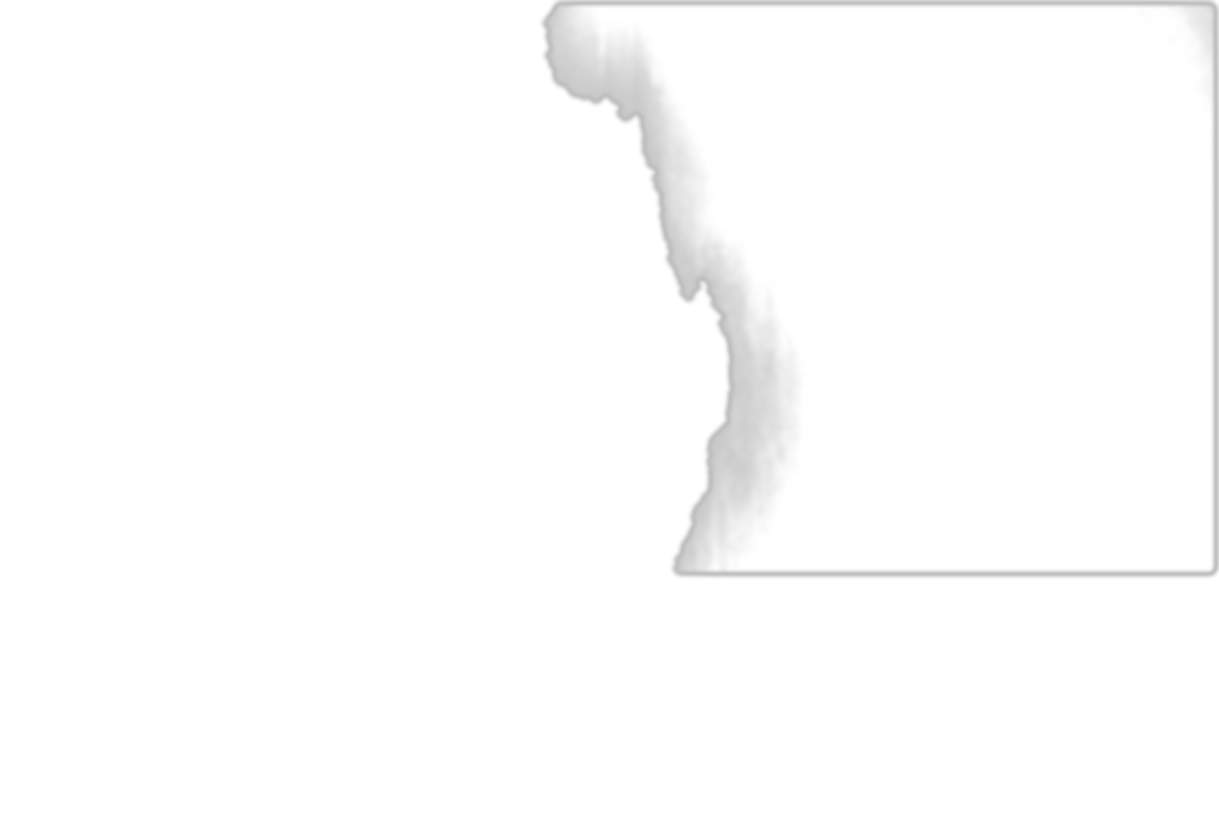
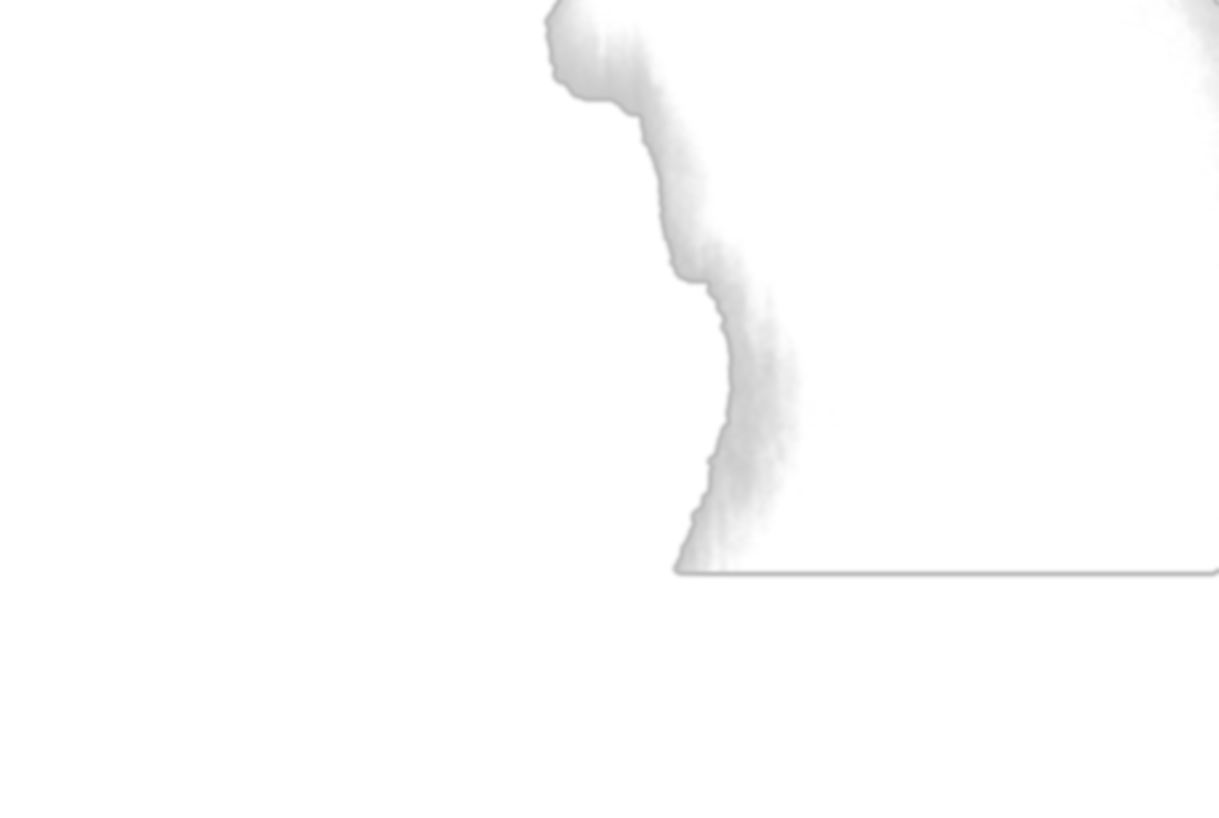
Visualiser masks: total fill on walls (horizontal sweep + colour check)
Goal of this pass: eliminate gaps inside the wall while keeping
furniture, windows and pendant lights untouched.

Pipeline additions:
- Hole-fill is now colour-aware. For each interior hole < 3% of the
  image, we average the hole's RGB and only plug it if that mean is
  within 1.7× dist of the seed. Picture frames and lamp halos (mean
  close to wall cream) get filled; brass pendant lights and dark
  fittings stay as holes.
- Horizontal sweep above the floor line: in each row, plug any gap
  bracketed by wall pixels left-and-right — but only for pixels
  within 1.8× dist of the seed (loose wall-colour test). Catches
  sunlit/shadowed mid-wall patches without bleeding onto sofas,
  tables or lamps. Sanity check: only sweep rows where wall already
  covers > 25% of the span.
- Closing iterations dropped from 5 → 2 so small in-wall fixtures
  (pendants, fittings) aren't swallowed into the wall blob during
  morphology — the new sweep takes over that job and does it with
  a colour check instead of a structural element.

Per-room tuning settled to a balance: kitchen-island dist=60 lets
sunlit ceiling fill via sweep without sweeping in the brass
pendants; bedroom-soft dist=95 absorbs the strong lamp halo.

Result after this pass: living-modern, living-warm, bedroom-soft,
bathroom, dining, hallway, office, exterior all paint cleanly with
full wall coverage. Bedroom-suite, kitchen-warm and kitchen-island
have minor residual gaps in their most extreme highlight zones —
[…]

diff --git a/images/rooms/_make_wall_masks.py b/images/rooms/_make_wall_masks.py
@@ -21,7 +21,7 @@ ROOMS = {
     'room-living-warm':    dict(seed=(0.55, 0.15), dist=58, floor=0.55, top=0.00),
     'room-bedroom-soft':   dict(seed=(0.30, 0.18), dist=95, floor=0.55, top=0.00),
     'room-bedroom-suite':  dict(seed=(0.70, 0.18), dist=70, floor=0.62, top=0.00),
-    'room-kitchen-island': dict(seed=(0.30, 0.20), dist=95, floor=0.50, top=0.00),
+    'room-kitchen-island': dict(seed=(0.30, 0.20), dist=60, floor=0.50, top=0.00),
     'room-kitchen-warm':   dict(seed=(0.55, 0.08), dist=82, floor=0.55, top=0.00),
     'room-dining':         dict(seed=(0.50, 0.30), dist=64, floor=0.72, top=0.00),
     'room-bathroom':       dict(seed=(0.55, 0.15), dist=72, floor=0.62, top=0.00),
@@ -55,10 +55,11 @@ def make_mask(im, p, slug):
     band[top_y:floor_y, :] = True
     candidate &= band
 
-    # Morphological close + open to clean up. Heavier closing than v2
-    # so that thin gaps (mouldings, picture-frame edges) get bridged
-    # and don't fragment the wall blob.
-    candidate = ndi.binary_closing(candidate, iterations=5)
+    # Morphological close + open to clean up. Keep closing modest so
+    # small in-wall fixtures (pendant lights, hanging fittings) don't
+    # get swallowed into the wall blob. Hole-fill + horizontal sweep
+    # downstream handle the larger interior gaps.
+    candidate = ndi.binary_closing(candidate, iterations=2)
     candidate = ndi.binary_opening(candidate, iterations=2)
 
     # Keep the connected component containing the seed point
@@ -72,25 +73,52 @@ def make_mask(im, p, slug):
         seed_label = int(np.argmax(sizes)) + 1
     keep = (labeled == seed_label)
 
-    # Fill SMALL internal holes inside the wall blob — picture frames,
-    # mirrors, lights, lamp halos. Skip large holes so windows and
-    # doorways stay as openings (otherwise the recolour bleeds onto
-    # whatever's visible through them).
+    # Fill SMALL internal holes inside the wall blob — but ONLY if the
+    # mean colour of the hole's pixels is reasonably close to the wall
+    # seed. Picture frames, mirrors and lamp halos average close to
+    # wall colour and get filled; brass pendant lights and dark fittings
+    # average far from cream wall and stay as holes.
     inv_lab, n_inv = ndi.label(~keep)
-    # Any background component touching the image border is the real
-    # outside, not a hole.
     border = set()
     border.update(np.unique(inv_lab[0, :]).tolist())
     border.update(np.unique(inv_lab[-1, :]).tolist())
     border.update(np.unique(inv_lab[:, 0]).tolist())
     border.update(np.unique(inv_lab[:, -1]).tolist())
     border.discard(0)
-    max_hole_px = 0.04 * h * w   # 4% of the image — windows are much bigger
+    max_hole_px = 0.03 * h * w
     sizes = ndi.sum(np.ones_like(inv_lab), inv_lab, range(1, n_inv + 1))
+    hole_colour_thr = p['dist'] * 1.7
     for lab in range(1, n_inv + 1):
-        if lab in border:        continue
+        if lab in border: continue
         if sizes[lab - 1] > max_hole_px: continue
-        keep[inv_lab == lab] = True
+        hole_pixels = inv_lab == lab
+        mean_col = rgb[hole_pixels].mean(axis=0)
+        if np.sqrt(((mean_col - seed_col) ** 2).sum()) > hole_colour_thr:
+            continue
+        keep[hole_pixels] = True
+
+    # Horizontal sweep: above the floor line, plug gaps that are
+    # bracketed by wall pixels left-and-right in the same row — but
+    # ONLY for pixels that are at least loosely wall-coloured. This
+    # picks up sunlit/shadowed central wall patches (still close to
+    # the seed colour, just brighter/darker) without bleeding onto
+    # sofas, tables and lamps (which sit far from the seed colour).
+    loose_dist = p['dist'] * 1.8
+    for y in range(top_y, floor_y):
+        row = keep[y]
+        if not row.any(): continue
+        xs = np.where(row)[0]
+        if len(xs) < 2: continue
+        left, right = xs[0], xs[-1]
+        coverage = row[left:right+1].sum() / (right - left + 1)
+        if coverage < 0.25: continue
+        # Within the span, fill only currently-empty pixels whose
+        # colour-distance from the seed is within the loose threshold.
+        span = slice(left, right + 1)
+        gap = ~row[span]
+        if not gap.any(): continue
+        wall_like = dist[y, span] <= loose_dist
+        keep[y, span] = row[span] | (gap & wall_like)
 
     # Slightly dilate the final mask so soft edges blend cleanly past
     # the wall boundary instead of stopping a pixel short.
